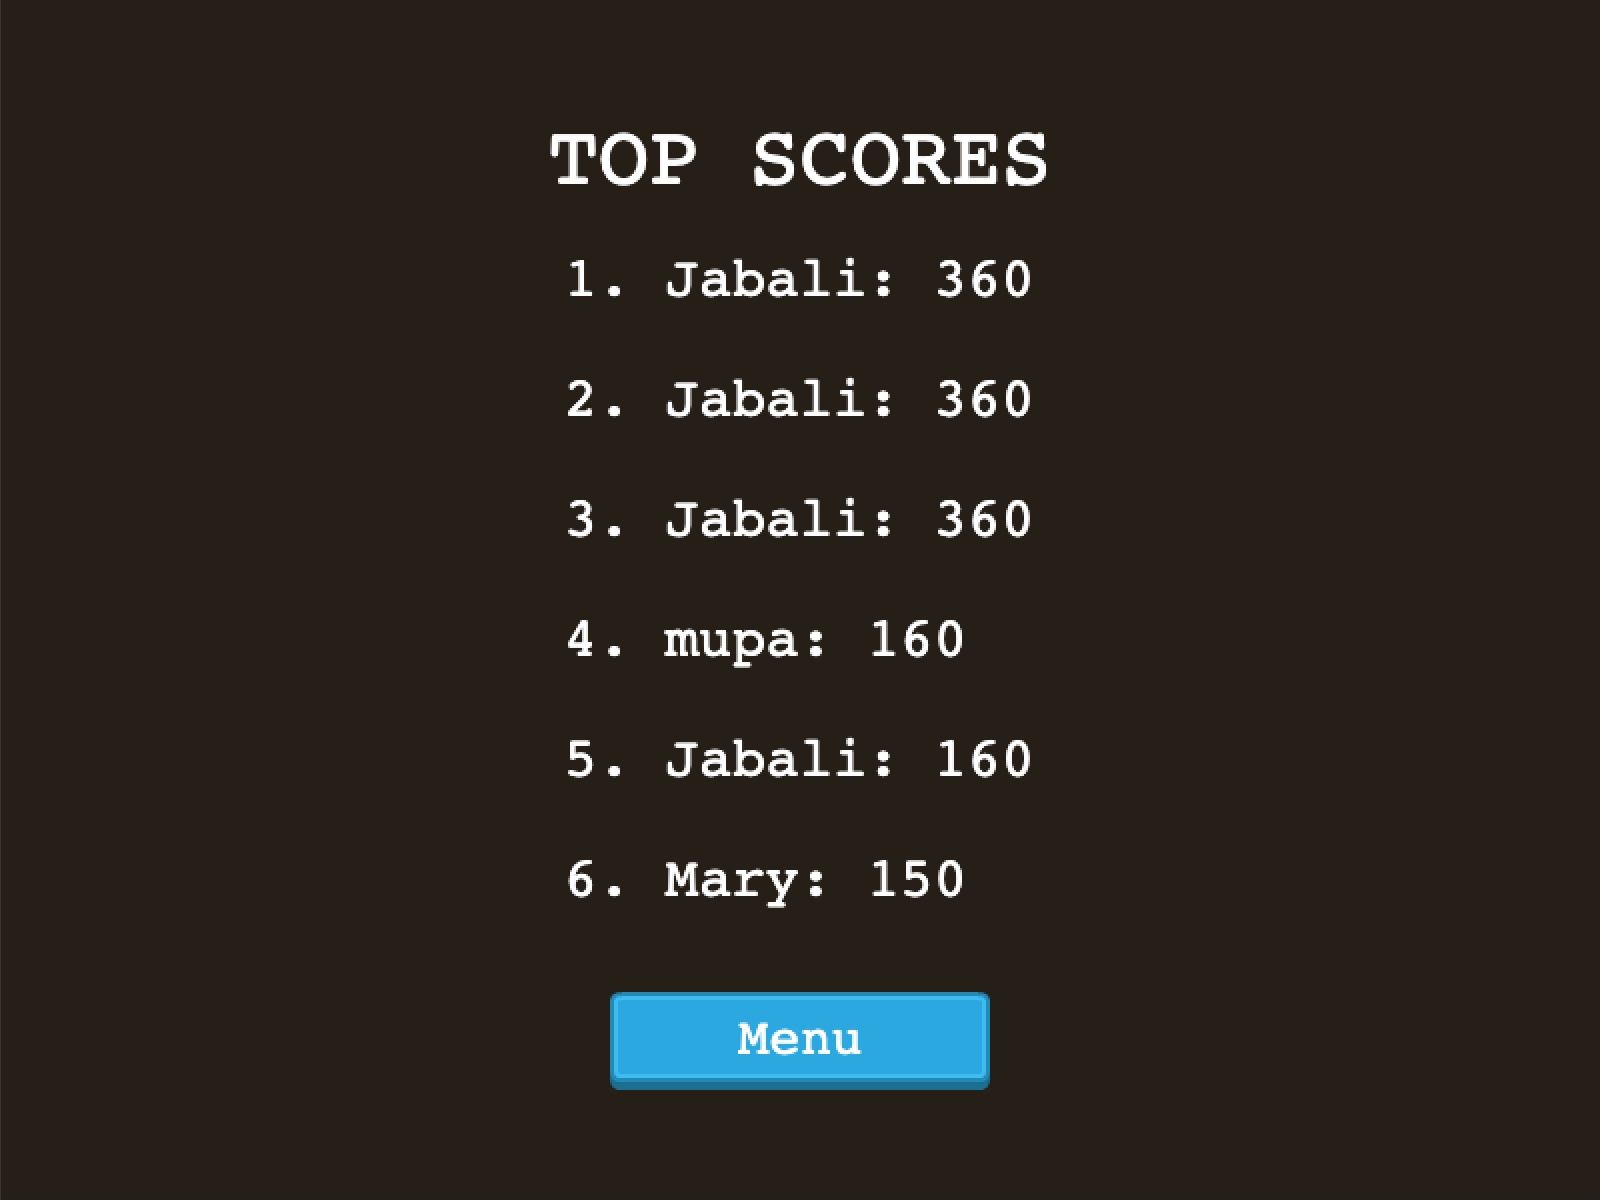
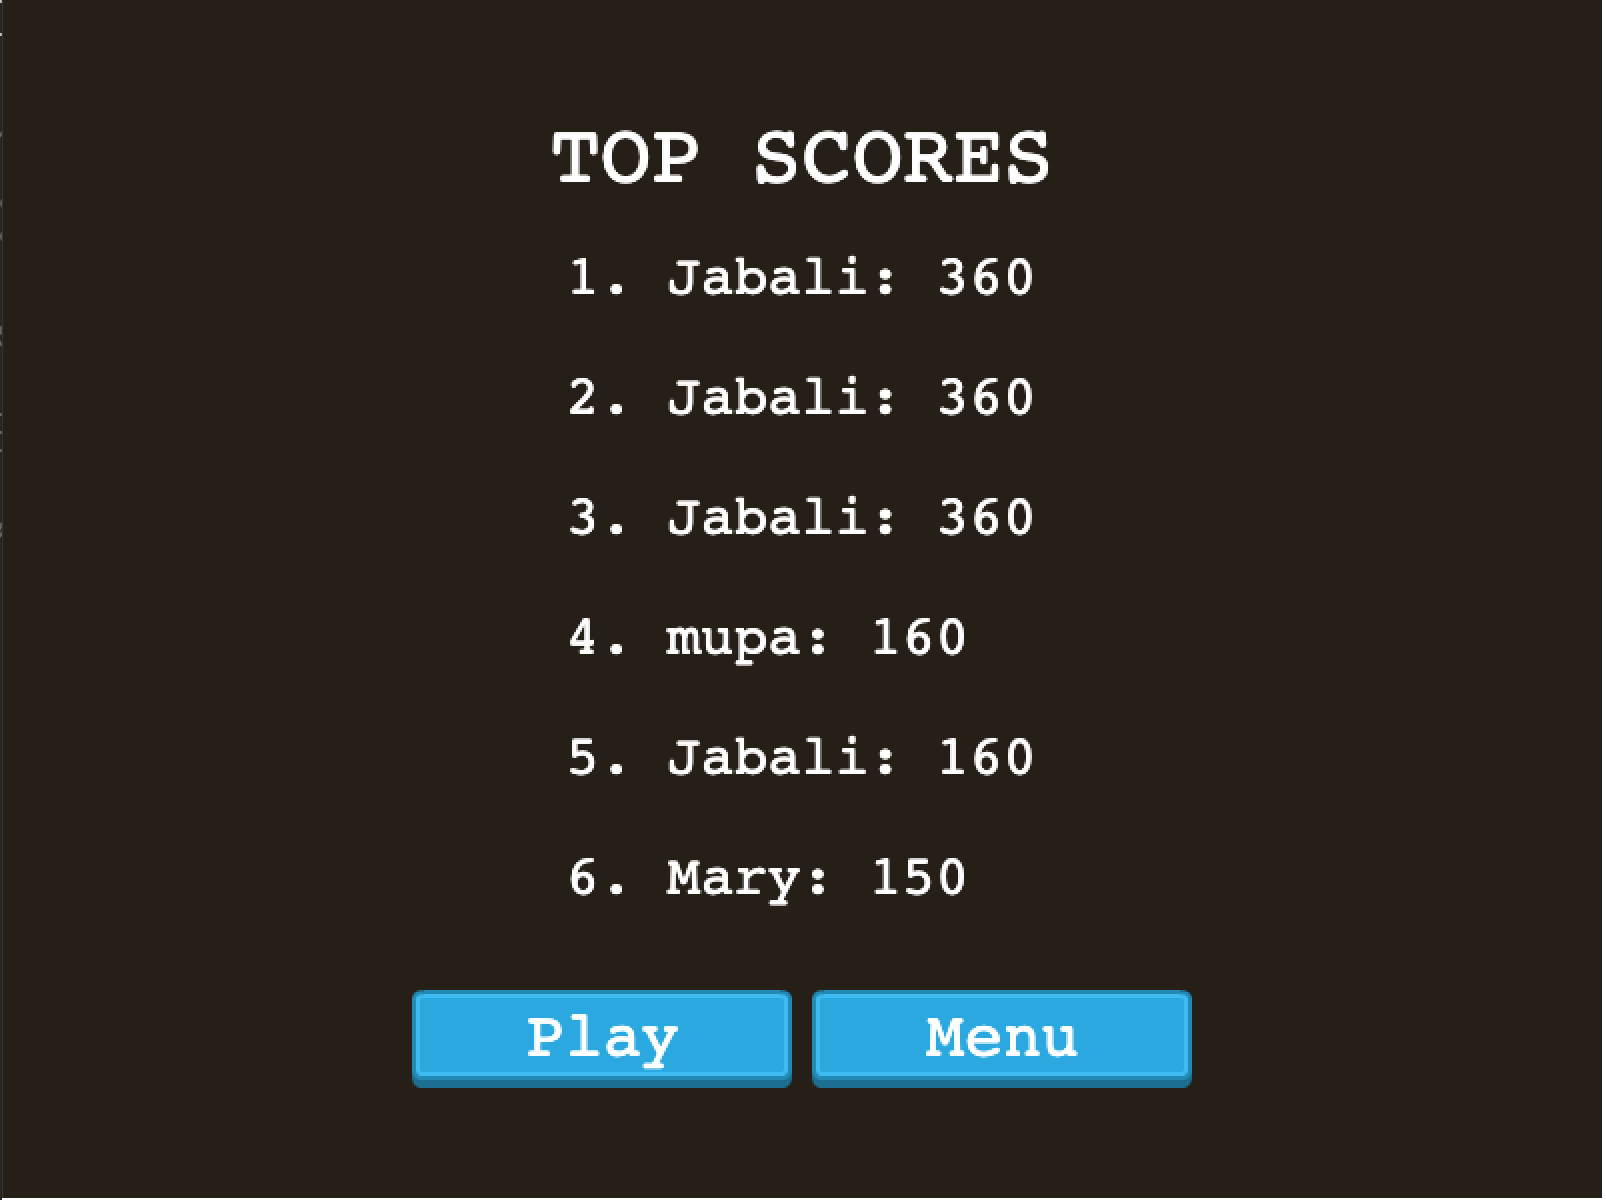
add play link on leaderboard scene

diff --git a/src/Scenes/LeaderBoardScene.js b/src/Scenes/LeaderBoardScene.js
@@ -38,8 +38,15 @@ export default class LeaderBoardScene extends Phaser.Scene {
       28,
     );
 
-    this.LeaderBoardButton = this.add.sprite(width, 520, 'blueButton1').setInteractive();
-    this.LeaderBoardText = Text.text(this, 0, 0, 'Menu', 26);
+    this.gameButton = this.add.sprite(width - 100, 520, 'blueButton1').setInteractive();
+    this.gameText = Text.text(this, 0, 0, 'Play', 32);
+    this.centerButtonText(this.gameText, this.gameButton);
+    this.gameButton.on('pointerdown', () => {
+      this.scene.start('Game');
+    });
+
+    this.LeaderBoardButton = this.add.sprite(width + 100, 520, 'blueButton1').setInteractive();
+    this.LeaderBoardText = Text.text(this, 0, 0, 'Menu', 32);
     this.centerButtonText(this.LeaderBoardText, this.LeaderBoardButton);
     this.LeaderBoardButton.on('pointerdown', () => {
       this.game.sound.stopAll();
